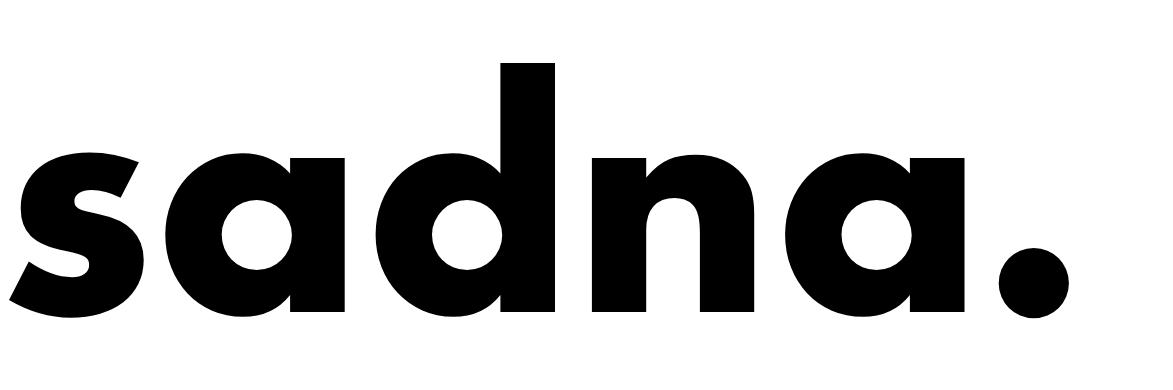
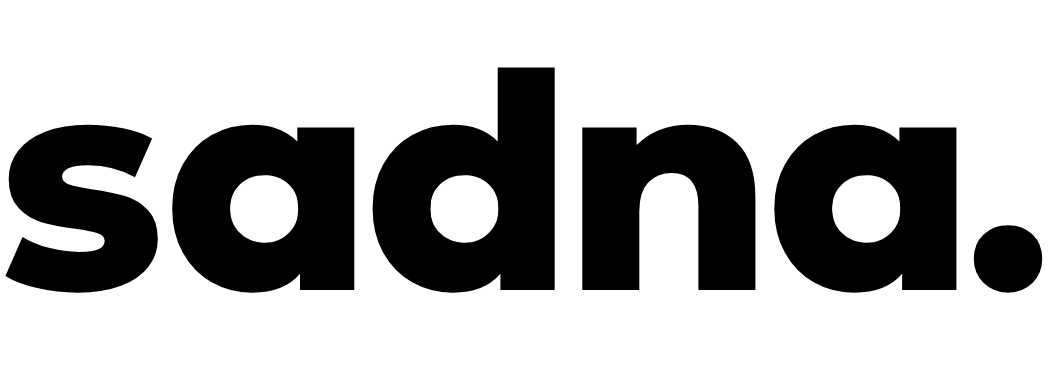
6

Changed region(s): [[0.0, 0.1507, 1.0, 0.8137]]

diff --git a/sadna.html b/sadna.html
@@ -17,21 +17,27 @@
 		<img src="skins/sadna_2x.png" id="sadna_2x" />
 
 		<div id="content-container" >
+			
 			<div id="_bg__sadna"  >
+			
 			<div id="big_challenges_require_a_small_team_" >
 				<b><mark>Big challenges</mark><br> require a <mark>small team</mark></b>
+				<br><br>
+				<a class="typeform-share link" href="https://amphi.typeform.com/to/EThv8C" data-mode="drawer_right" data-hide-headers=true data-hide-footer=true target="_blank">
+				
+				<div id="rectangle_3"><b> Challenge us >> </a></b></div> 
 			
-			</div></div>
-			<a class="typeform-share link" href="https://amphi.typeform.com/to/EThv8C" data-mode="drawer_right" data-hide-headers=true data-hide-footer=true target="_blank">
+				</div>
+			</div>
+		</div>
+	
+			
 
-			<div id="group_2"  >
-				<div id="rectangle_3"><b> Challenge us >> </a></b></div> </div>
+				
 			
 			 <script> (function() { var qs,js,q,s,d=document, gi=d.getElementById, ce=d.createElement, gt=d.getElementsByTagName, id="typef_orm_share", b="https://embed.typeform.com/"; if(!gi.call(d,id)){ js=ce.call(d,"script"); js.id=id; js.src=b+"embed.js"; q=gt.call(d,"script")[0]; q.parentNode.insertBefore(js,q) } })() </script>
 				
 				
-			</div>
-		</div>
 	
 	</body>
 </html>

diff --git a/sadna.css b/sadna.css
@@ -2,8 +2,8 @@
 html, body { 
 	width: 100%;
 	height: 100%;
-	font-family: helvetica; 
-	overflow-x:hidden;     
+	font-family: 'Roboto', sans-serif; 
+	overflow: hidden;  
 	top:0;
     bottom:0;
     left:0;
@@ -26,15 +26,15 @@ a {
 
 #sadna_2x {
 height: 7%;
+margin: 3%;
+margin-top: 3%;
 width: auto;
 }
 
 
 #content-container { 
-	width: 90%;
-	
-	height: 90%;
-
+	width: 100%;
+	height: 70%;
 
 	 }
 
@@ -54,23 +54,24 @@ width: auto;
 	overflow: hidden;
 	font-size: 4vmax;
 	text-align: left;
+	font-weight: 700;
 	line-height: 6vmax;
 
 }
 
 
 #group_2 {
-    width: 90%;
-    height: 22%;
-    bottom: 10%;
+    width: 71.5%;
+    height: 15%;
+    bottom: 20%;
     
 }
 
 #rectangle_3 {
 	
 	width: 15vmax;
-	height: 8vh;
-	border: 6px solid #000000;
+	height: 7vmin;
+	border: 0.3vmax solid #000000;
 	font-size: 1.5vmax;
 	display: flex;
     justify-content: center;
